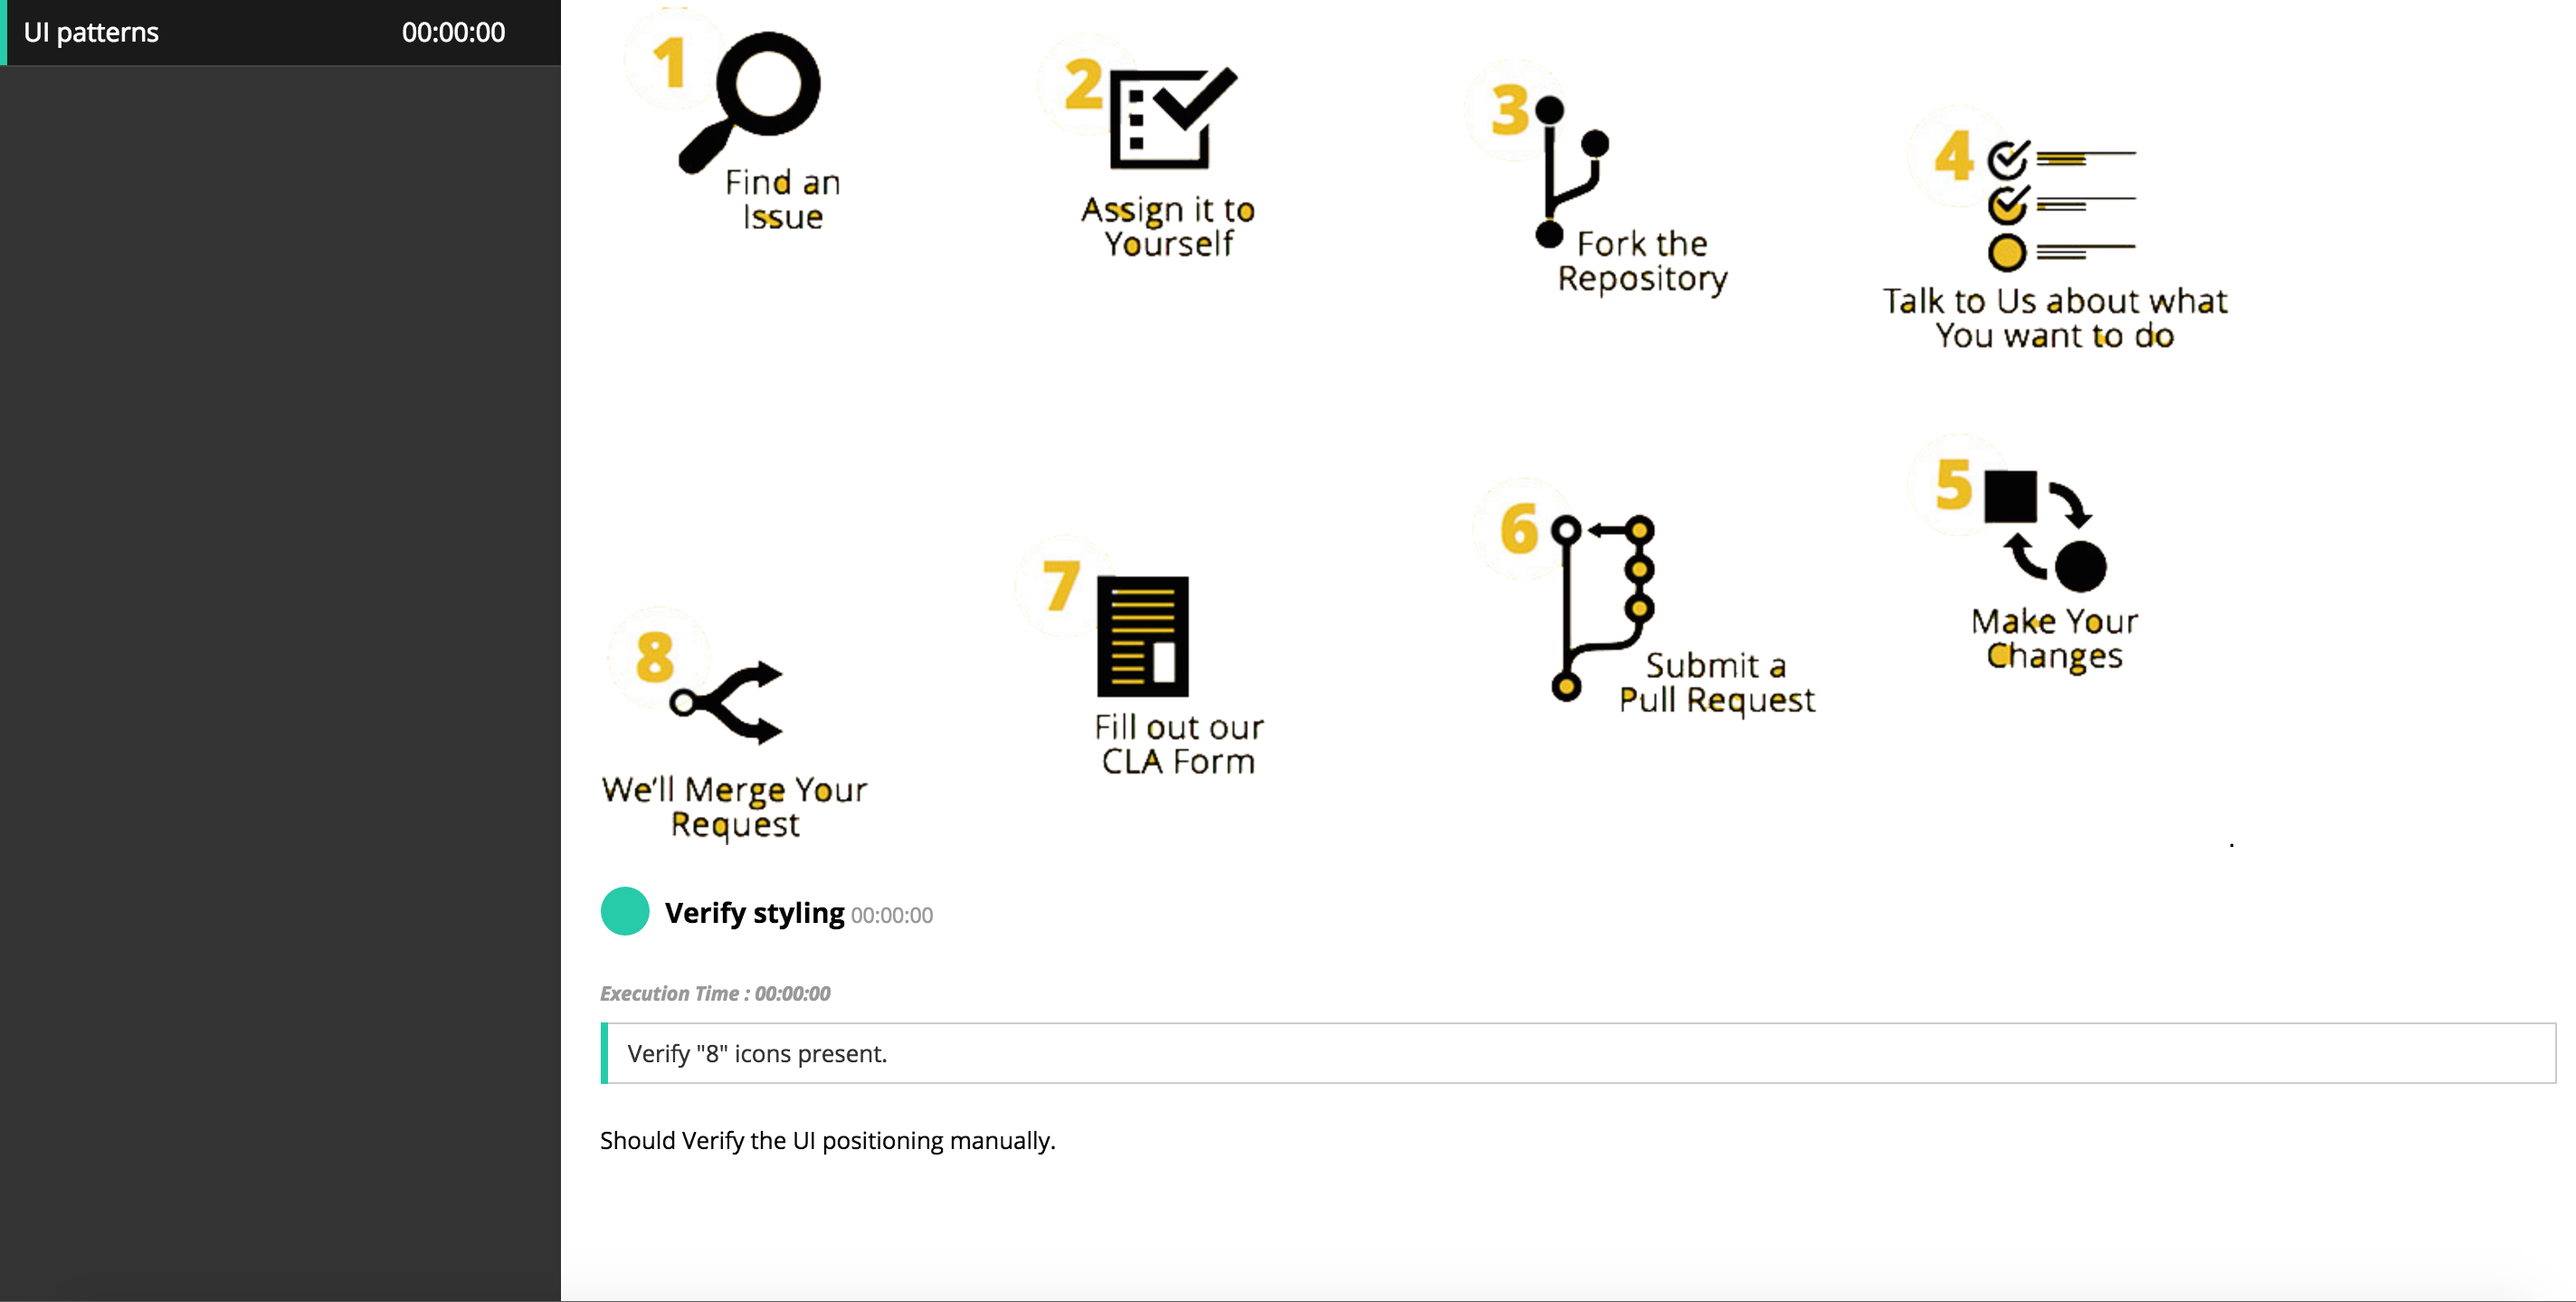
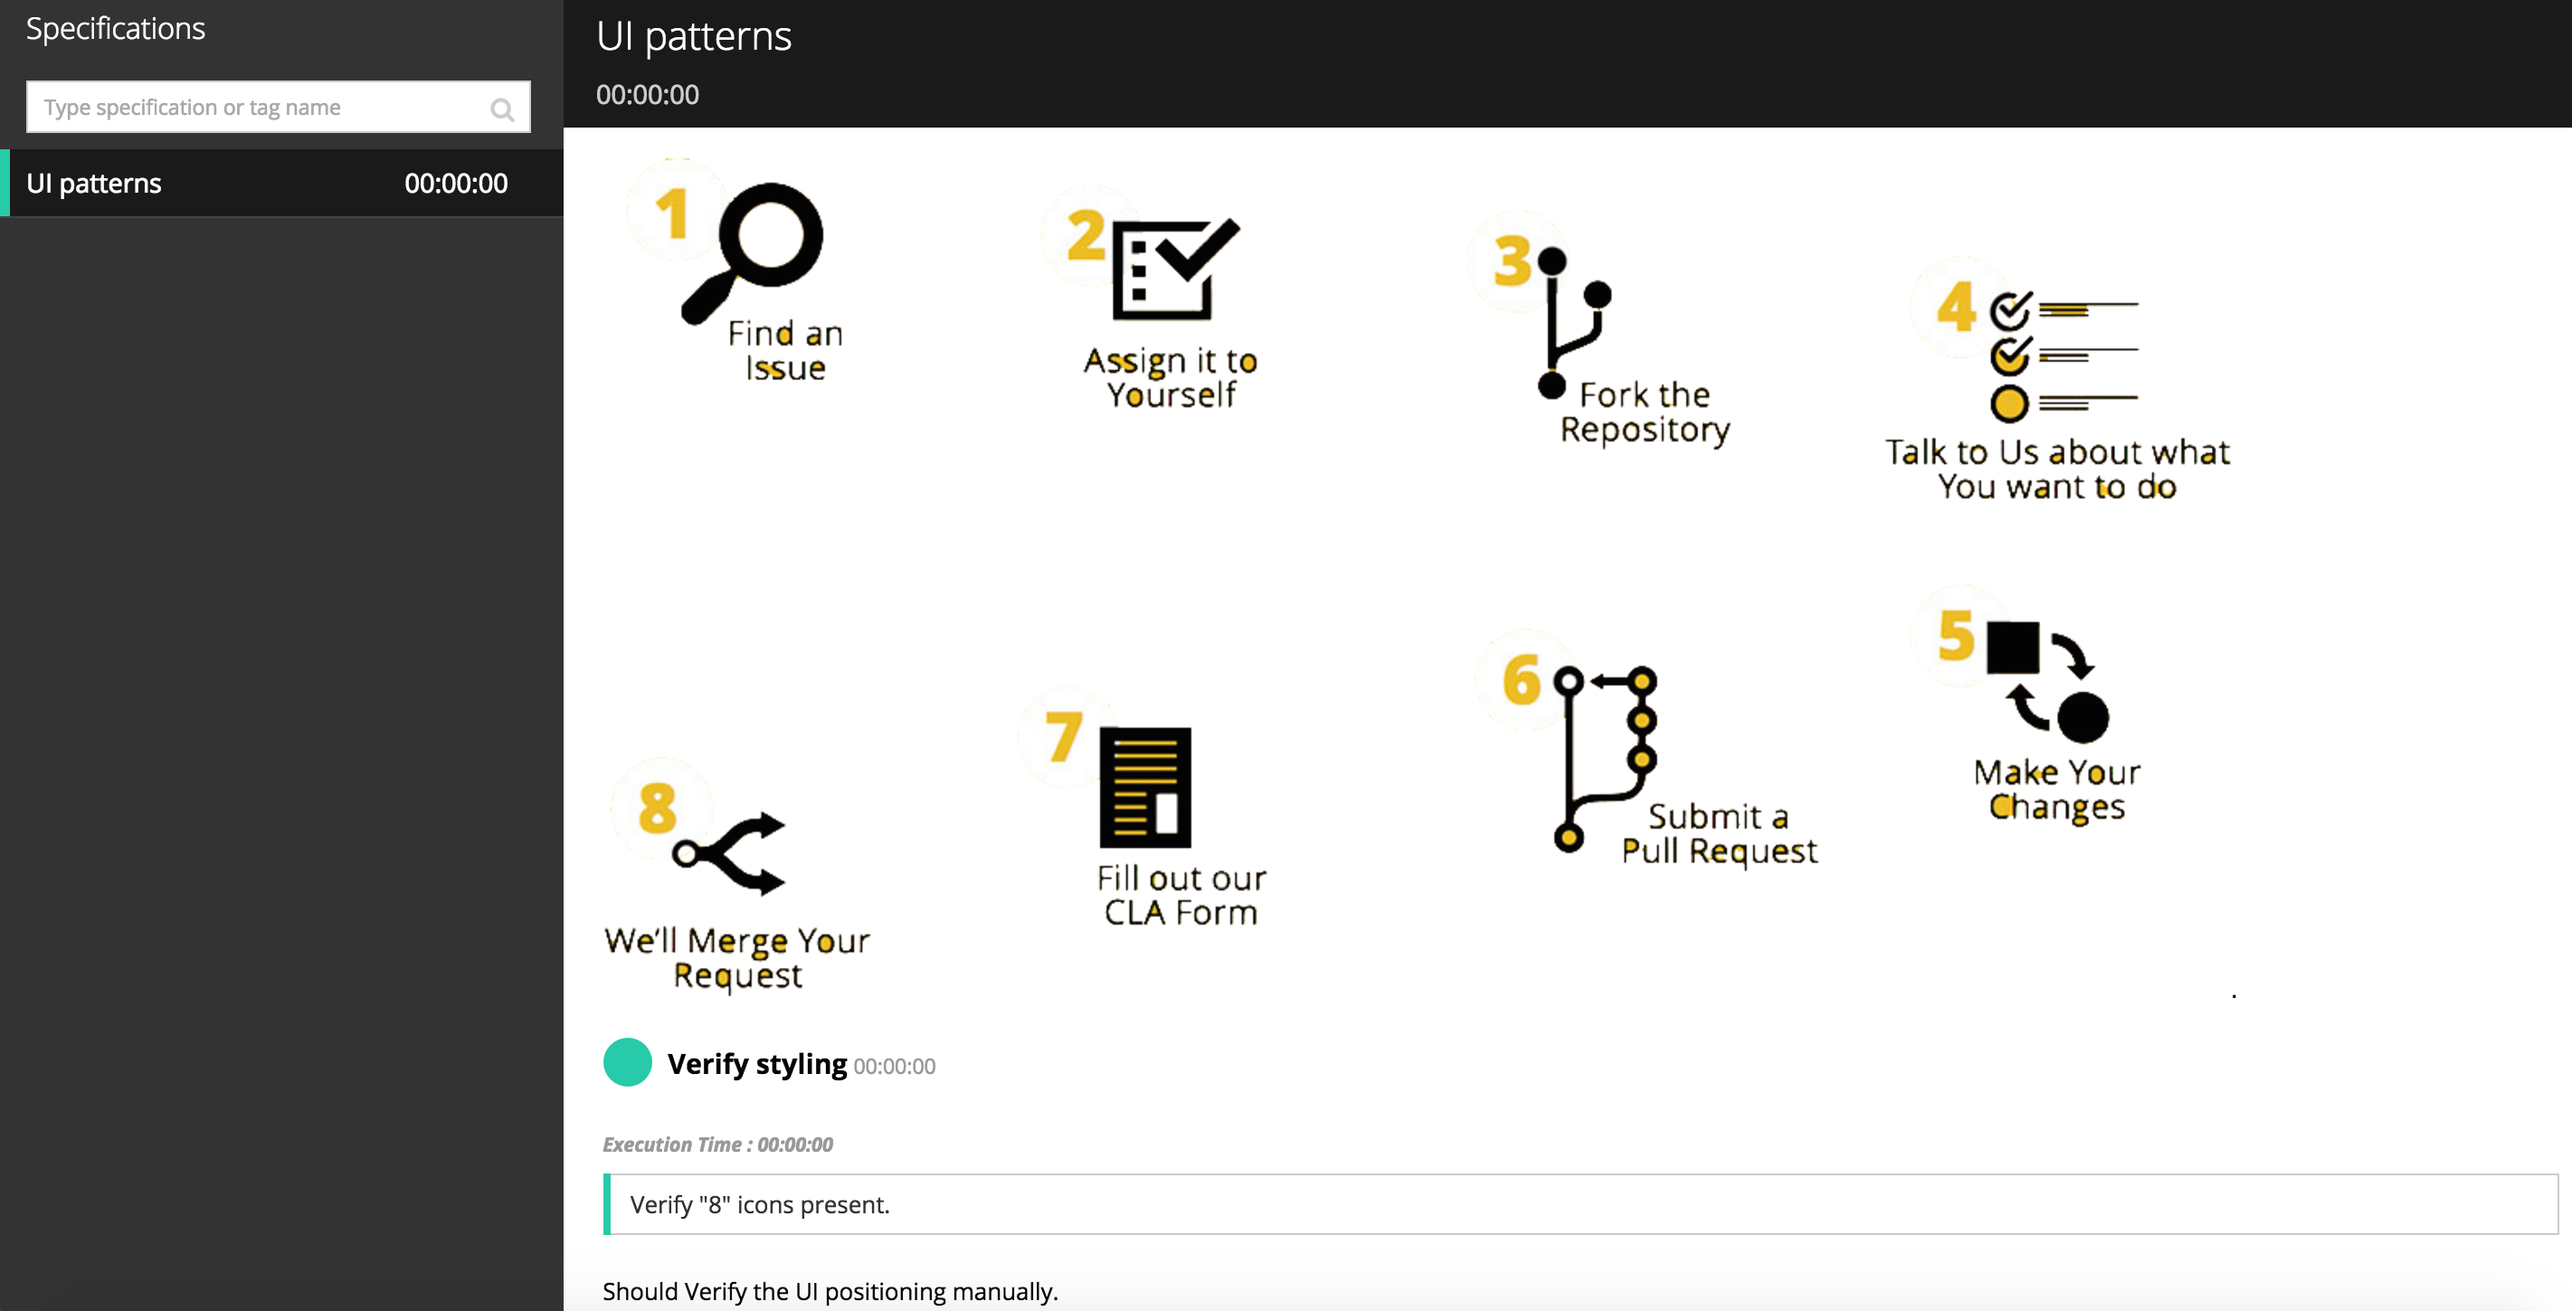
updating the image section

diff --git a/source/blog/posts/2016-08-03-expressing-tests-better.md b/source/blog/posts/2016-08-03-expressing-tests-better.md
@@ -79,9 +79,9 @@ Verify styling
 * Verify “8” icons present.
 Should Verify the UI positioning manually.
 ```
-The following is the screenshot of the html report generated on implementing and executing the above spec.
+The following is the screenshot of the generated html report after implementing and executing the above spec.
 <img src="../assets/images/blog/expressing-tests-better-UI-Patterns-example.png" width:auto height:auto>
 
-As shown in the example, other formats can be used in describing upcoming implementations, indicate manual verifications etc. This feature of Gauge helps a user convey the essence more effectively than a description.
+An image can be used to indicate manual verifications, upcoming implementations etc. This feature of Gauge helps a user convey the essence more effectively than a description.
 
 The ability to write tests in the Markdown format to express broad ranging journeys has become vital, and Gauge helps in addressing this aspect of test automation.
